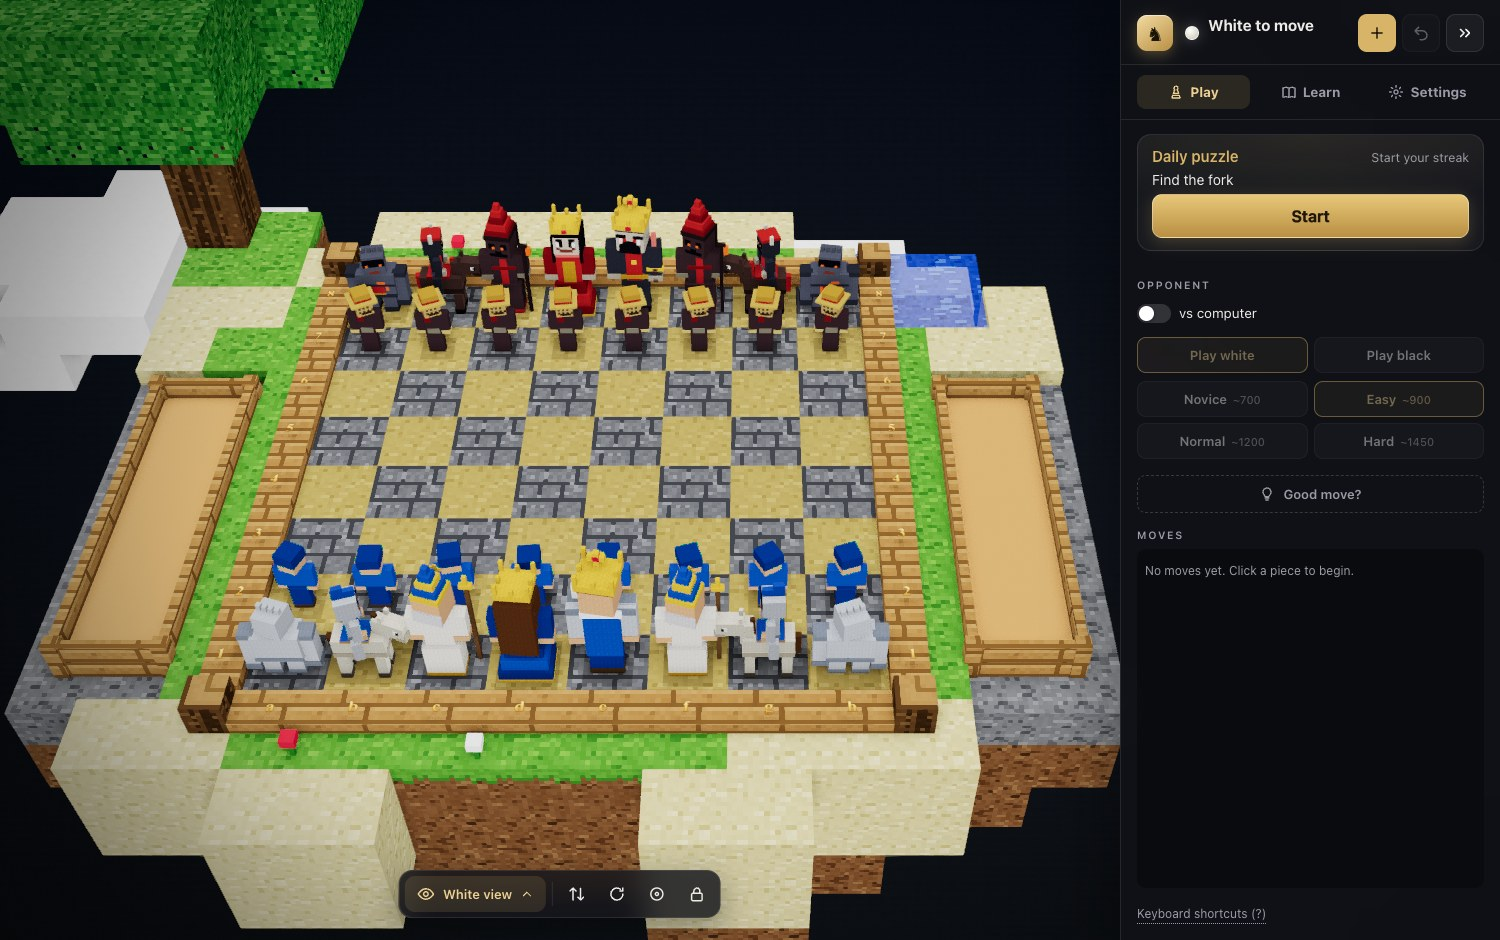
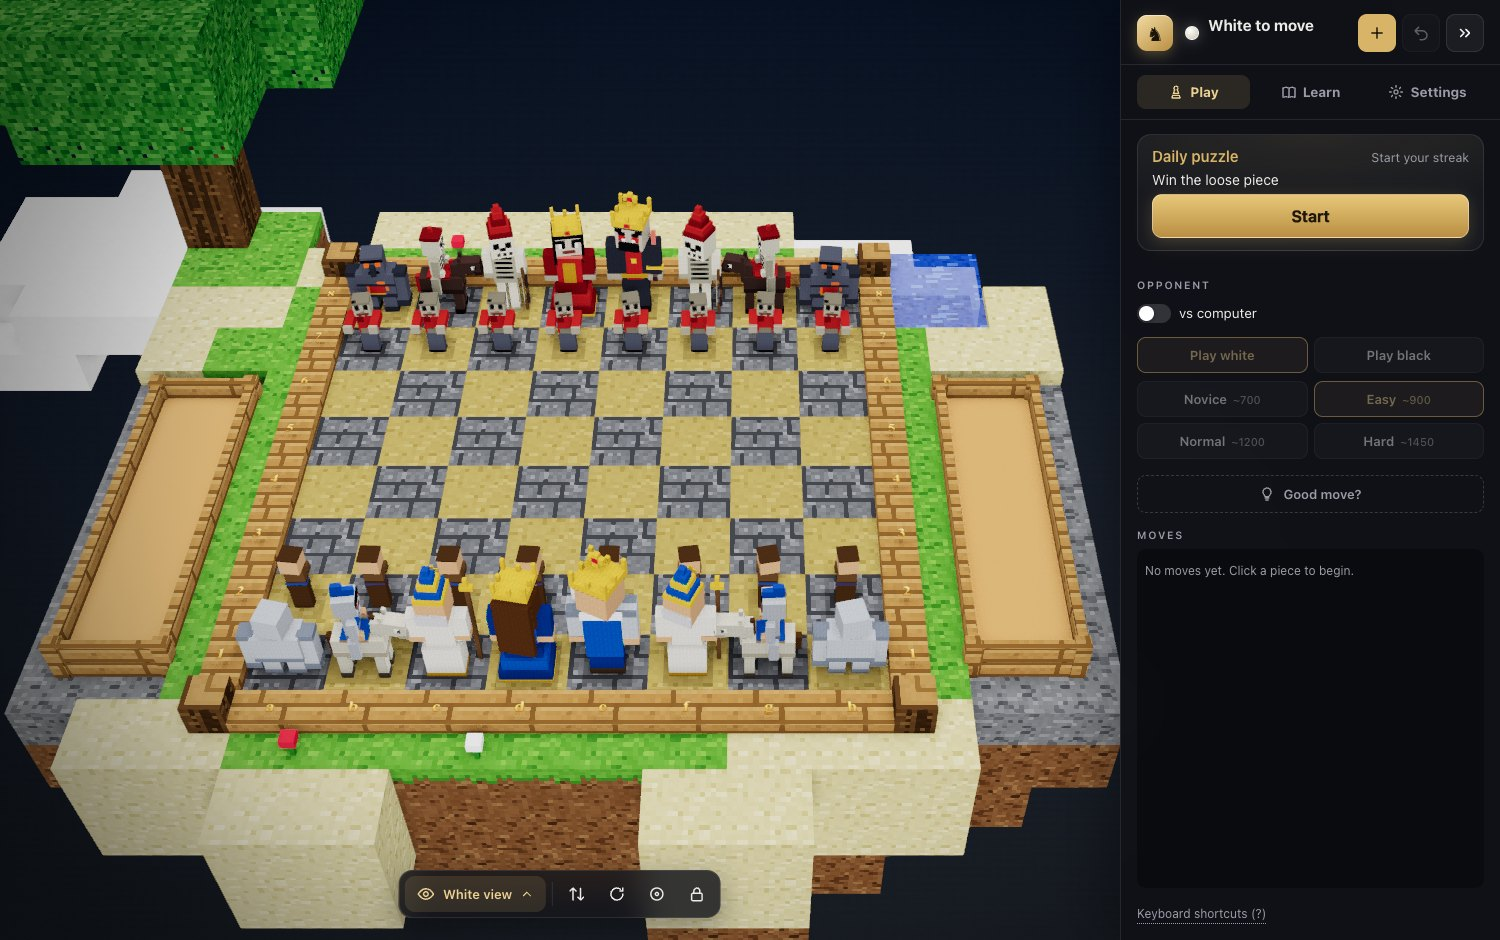
v1.4.1: fresh screenshots for Pixelwelt, Blocks, Badges, Puzzles and the phone Learn sheet; README names the clock hint and button

diff --git a/README.md b/README.md
@@ -156,7 +156,7 @@ Rules
 Rendering
 
 - A short start sequence: a king turns slowly, then the board builds itself. Skip it with `?intro=0`; it is also off with the system setting reduce motion
-- Chess clock: 3+2, 5+0, 10+0, 15+10 or off (default off), chosen in Settings (Menu on a phone). The clock of the side to move runs, starting with White's first move; each move adds the increment. Against the computer only your clock runs. A flag loses on time, or draws when the opponent has only a king. Lessons and puzzles never use it.
+- Chess clock: 3+2, 5+0, 10+0, 15+10 or off (default off), chosen in Settings (Menu on a phone). The clock of the side to move runs, starting with White's first move; each move adds the increment. Against the computer only your clock runs. A flag loses on time, or draws when the opponent has only a king. A time control chosen while a game is on the board applies from the next game: a hint says so and a button starts that game now (with nothing played yet it applies at once). With the desktop panel folded to its rail the clock faces show in a small bar beside it. Lessons and puzzles never use it.
 - Board of white and black marble squares in a walnut frame with a gold inlay, coordinate labels, a plinth and a captured-piece tray on each side of the board (pieces lie inside the tray, never overlapping, ordered by value; the Captured pieces at the side switch in the Scene card, or Menu on a phone, turns the trays off: a captured piece then fades out at the board edge, the camera fits the board alone, and the Captured list in the desktop Play tab appears (it is hidden while the trays show the pieces); the choice is kept per device)
 - Sculpted Staunton pieces: a lathe turned pawn, rook, bishop, queen and king and a modelled knight head. 58k to 83k triangles per piece type
 - Seven themes (Classic, Tournament, Wood, Metal, Glass, Blocks, Pixelwelt), each one bundle of board squares, frame, inlay, pieces and lighting. The piece shapes stay, only materials and colours change (Tournament plays on vinyl green and warm cream squares like a club set). The textures are built on the first pick of a theme and freed again when you leave it. Glass uses real transmission only on the High quality tier; Low and Medium get a tinted lacquer look that costs nothing extra. Blocks is the exception to "the piece shapes stay": a floating block island under a warm evening sky with a board of bevelled grass and stone squares in a slim plank frame, the capture trays as wooden crates, a tree that steps aside when it would stand in front of the board (a bush with two flowers marks its foot, so the corner is never bare), a slow waterfall and drifting clouds that fade out behind the controls (all 32 px pixel textures drawn in code), with block heroes against block critters (both bishops carry a staff with a gold crook, and the red queen is rose pink so she reads apart from the red king). Pixelwelt (English "Pixel world", `?theme=pixel`) is a second block world with its own look: 16 x 16 pixel textures drawn in code (grass over dirt, stone, cobblestone, sand, oak planks and logs, leaves, water), fixed per face shading like a block game (top brightest, sides darker, no smooth gradients), a board of sand and cobblestone squares flush with the grass in an oak frame, crates for the captured pieces, a square sun and blocky clouds, and figures with blocky proportions (a cube head with an 8 x 8 pixel face, box body, arms and legs): a trader, a stone guardian, an armoured knight on a horse, a robed cleric, a queen and a king against a walker, a dark guardian, a rider, a bone archer, a queen and a king. The figures stay close to the familiar archetypes (the trader with folded arms and a long nose, the walker with arms stretched out, the skeleton archer). All textures, shapes and names are our own; nothing is taken from another game.
